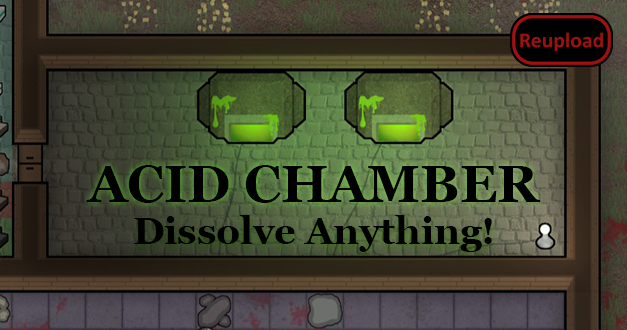
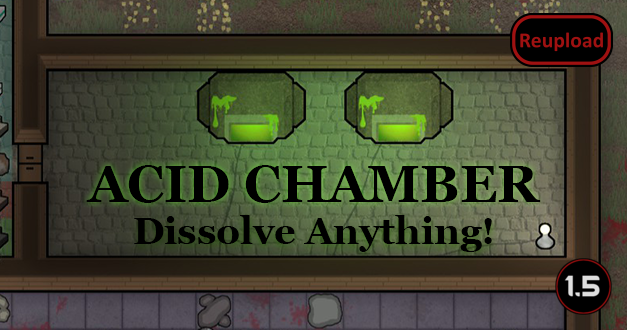
Mod updated for 1.5 and passed autotests

Changed region(s): [[0.8788, 0.7576, 1.0, 0.9697]]

diff --git a/README.md b/README.md
@@ -36,11 +36,13 @@ Supports v.16
 
 -  See if the the error persists if you just have this mod and its requirements active.
 -  If not, try adding your other mods until it happens again.
--  Post your error-log using https://steamcommunity.com/workshop/filedetails/?id=818773962]HugsLib and command Ctrl+F12
+-  Post your error-log using https://steamcommunity.com/workshop/filedetails/?id=818773962]HugsLib or the standalone https://steamcommunity.com/sharedfiles/filedetails/?id=2873415404]Uploader and command Ctrl+F12
 -  For best support, please use the Discord-channel for error-reporting.
 -  Do not report errors by making a discussion-thread, I get no notification of that.
 -  If you have the solution for a problem, please post it to the GitHub repository.
+-  Use https://github.com/RimSort/RimSort/releases/latest]RimSort to sort your mods
 
 
 
+https://steamcommunity.com/sharedfiles/filedetails/changelog/2591111566]![Image](https://img.shields.io/github/v/release/emipa606/AcidChamberDissolveAnything?label=latest%20version&style=plastic&color=9f1111&labelColor=black)
 
